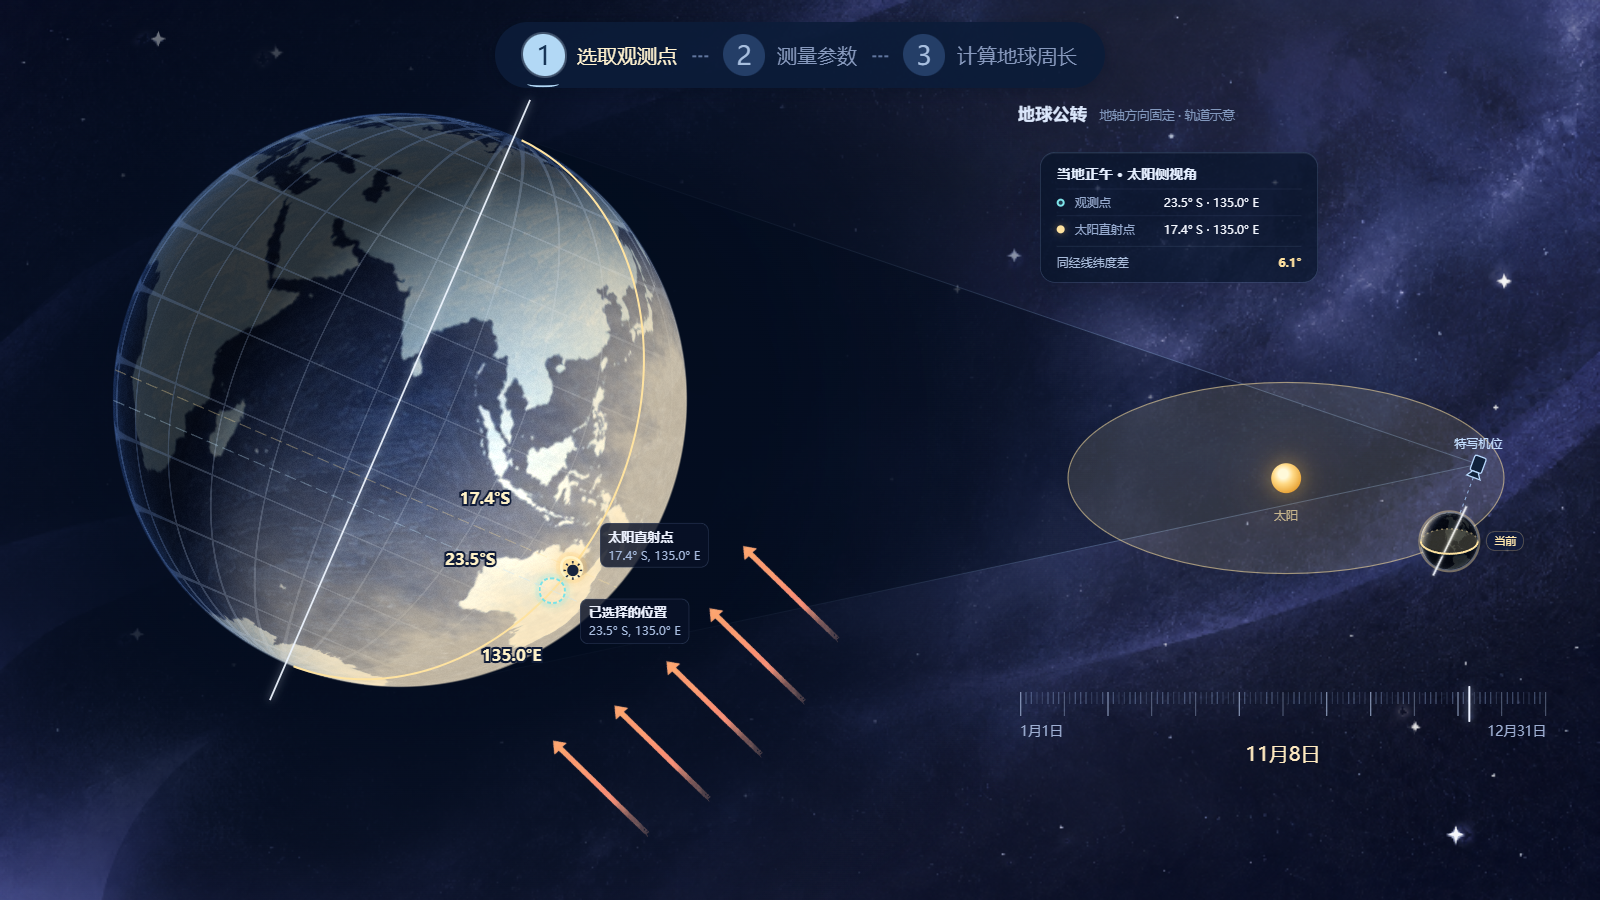
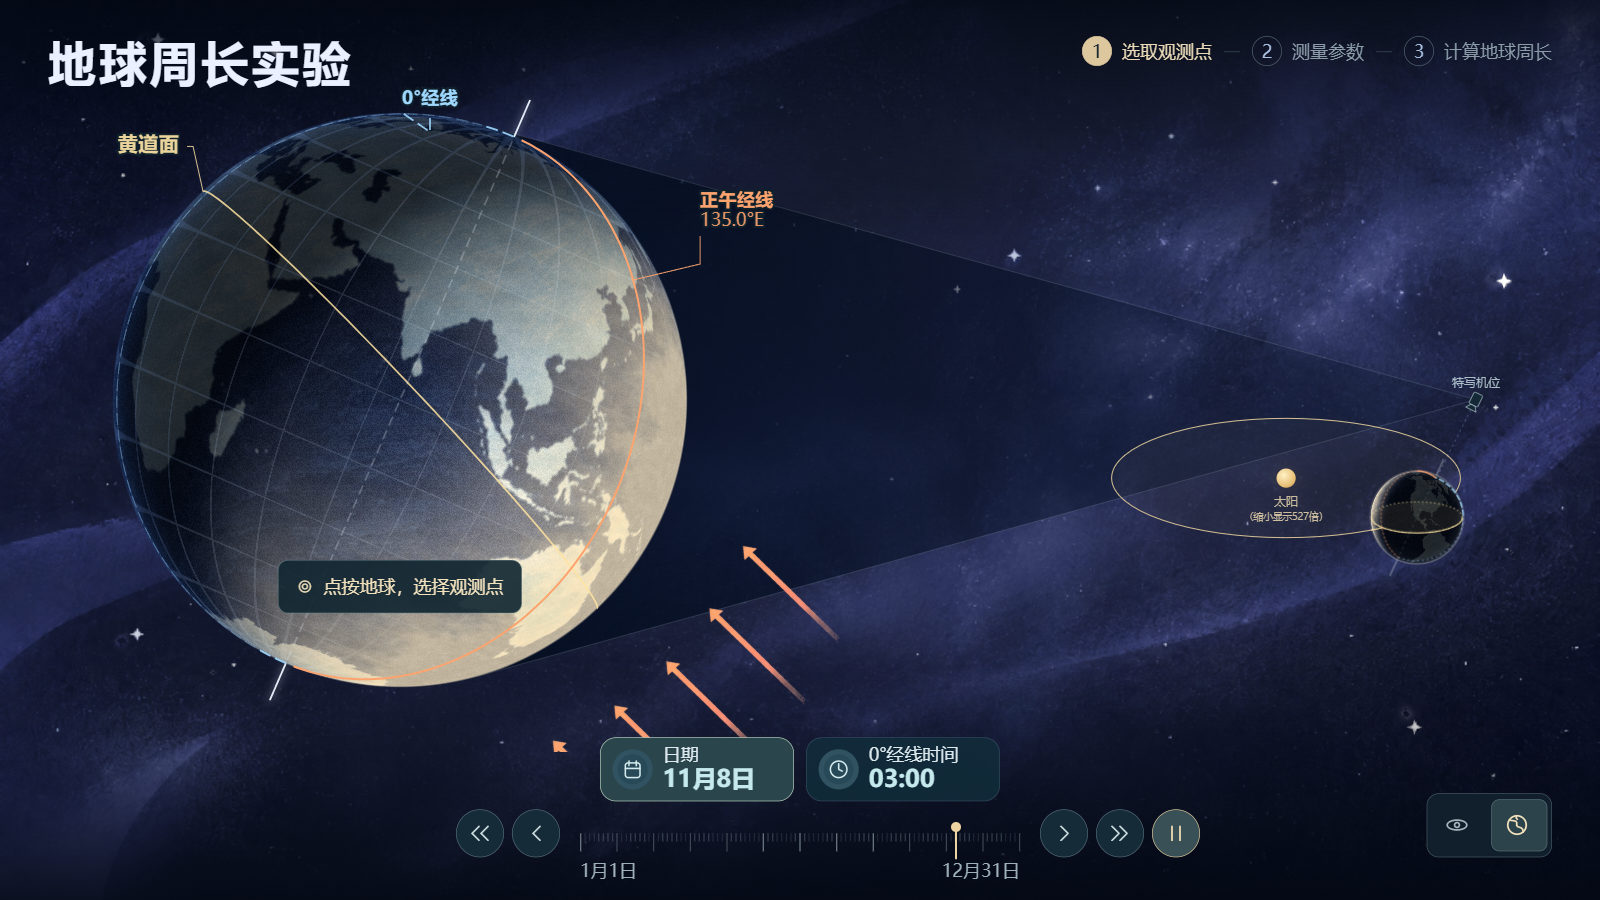
地球周长：迁移视角与太阳模型浏览器回归
完成内容：验证公转机位隐藏、地球视角切换与手动正午对齐；保留几何与科学模型断言，记录短路径服务排障。

已知问题：全仓检查重跑中；白板与长期性能待验收。

diff --git a/experiments/earth-circumference/docs/2026-11-11-ui-refinement-validation.md b/experiments/earth-circumference/docs/2026-11-11-ui-refinement-validation.md
@@ -29,3 +29,13 @@
 ## 交付状态
 
 科学精度、白板触控、长期运行、通用离线导出仍未完成验收。本实验尚未接入通用导出。完整自动检查存在上述失败，PR先供审阅，暂不合并。
+
+
+## 后续排障（2026-11-11）
+
+- 已同步 origin/main（b9556d9，包含新版公共进度测试），不修改牛顿或公共测试源码。
+- view-mode-browser 改用视角切换按钮进入地球视角，显式断言公转视角机位隐藏、地球视角机位可见；保留视角尺寸、透明度与连接几何检查，检查当前同步过渡机制。
+- solar-browser 先暂停公转并进入地球视角，各日期显式手动对齐当地正午；保留135°经度、太阳赤纬、地轴及圆锥切线断言，通过宿主标记定位属性验证投影，避免读取按流程隐藏的标记尺寸。
+- 两项专项已在 Chrome 157 通过，无 pageerror。
+- 原7项资源404并非Git缺失：文件存在且已跟踪。工作树绝对路径过长时Python HTTP读取失败；映射短路径 V: 后通过端口8392验证返回200。未修改光污染代码或资源。
+- 完整检查使用 BASE_URL=http://127.0.0.1:8392，后续结果以PR最新检查为准。
